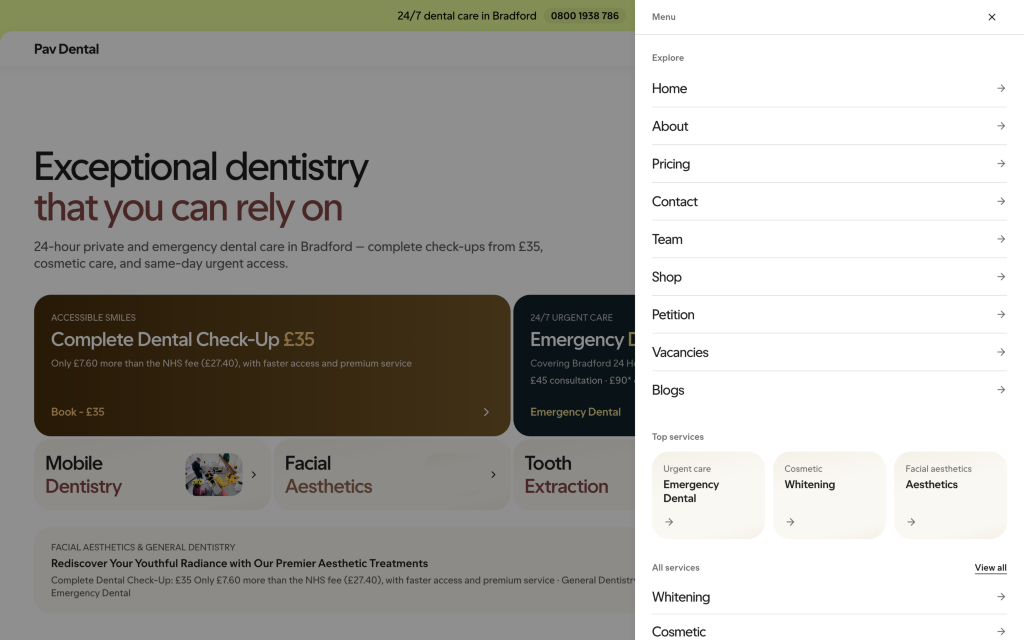
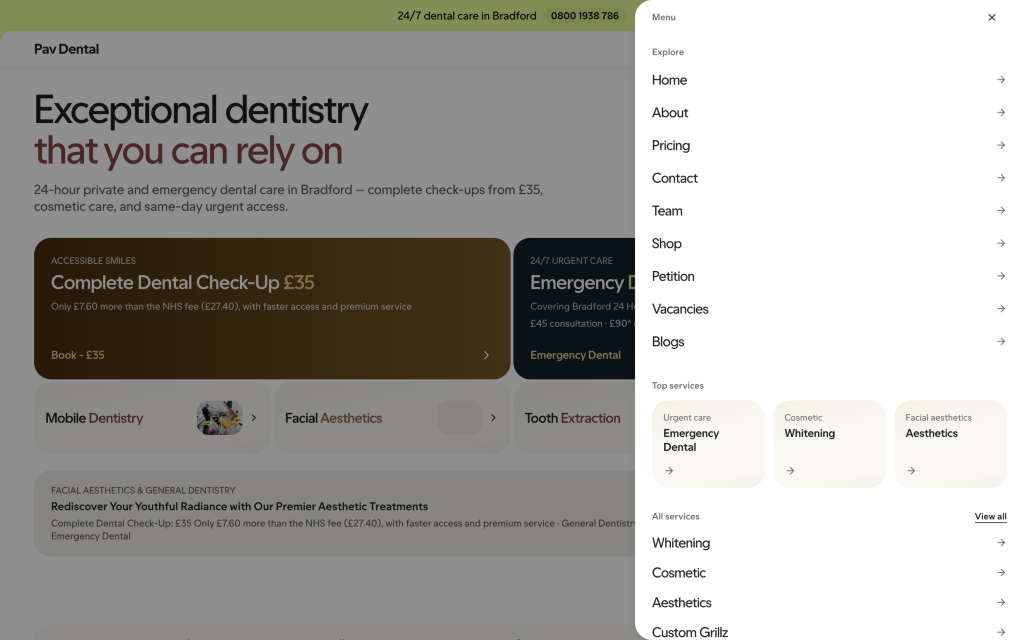
Website: align hero category tiles and menu drawer with Mobbin Hims screens

diff --git a/website/src/components/home/header.tsx b/website/src/components/home/header.tsx
@@ -141,11 +141,11 @@ export function Header() {
         aria-hidden={!menuOpen}
         inert={!menuOpen}
         className={cn(
-          "fixed inset-y-0 right-0 z-[71] flex w-full max-w-[547px] flex-col bg-white shadow-card transition-transform duration-300 ease-smooth",
+          "fixed inset-y-0 right-0 z-[71] flex w-full max-w-[547px] flex-col bg-white shadow-card transition-transform duration-300 ease-smooth md:rounded-l-xl",
           menuOpen ? "translate-x-0" : "translate-x-full",
         )}
       >
-        <div className="flex h-[49px] shrink-0 items-center justify-between border-b border-border px-6">
+        <div className="flex h-[49px] shrink-0 items-center justify-between px-6">
           <span className="text-caption font-medium text-subtle">Menu</span>
           <Button
             ref={closeButtonRef}
@@ -159,16 +159,16 @@ export function Header() {
           </Button>
         </div>
 
-        <div className="flex-1 overflow-y-auto px-6 py-6">
+        <div className="flex-1 overflow-y-auto px-6 py-4">
           <nav aria-label="Primary navigation">
             <p className="mb-2 text-caption font-medium text-subtle">Explore</p>
-            <ul className="divide-y divide-border">
+            <ul className="space-y-0.5">
               {NAV_LINKS.map((link) => (
                 <li key={link.href}>
                   <a
                     href={link.href}
                     onClick={closeMenu}
-                    className="group flex items-center justify-between py-3.5 text-nav-lg text-fg t-colors hover:text-muted"
+                    className="group flex items-center justify-between rounded-md py-2.5 text-nav-lg text-fg t-colors hover:text-muted"
                   >
                     <span>{link.name}</span>
                     <ArrowRight
@@ -215,13 +215,13 @@ export function Header() {
                 View all
               </a>
             </div>
-            <ul className="divide-y divide-border">
+            <ul className="space-y-0.5">
               {SERVICE_PAGES.map((service) => (
                 <li key={service.href}>
                   <a
                     href={service.href}
                     onClick={closeMenu}
-                    className="group flex items-center justify-between py-3 text-nav-lg text-fg t-colors hover:text-muted"
+                    className="group flex items-center justify-between rounded-md py-2 text-nav-lg text-fg t-colors hover:text-muted"
                   >
                     <span>{service.name}</span>
                     <ArrowRight

diff --git a/website/src/components/home/hero-slider.tsx b/website/src/components/home/hero-slider.tsx
@@ -109,11 +109,11 @@ export function HeroSlider() {
             to={tile.to}
             className="group flex h-[80px] items-center justify-between gap-3 overflow-hidden rounded-xl bg-tile-cream px-4 t-lift lg:h-[100px]"
           >
-            <span className="text-h4 text-fg">
+            <span className="text-nav-lg font-[470] text-fg">
               {tile.title} <span className={ACCENT_TEXT[tile.accentTone]}>{tile.accent}</span>
             </span>
             <span className="flex shrink-0 items-center gap-2">
-              <span className="t-zoom block w-16 overflow-hidden rounded-md lg:w-20">
+              <span className="t-zoom block w-14 overflow-hidden rounded-md lg:w-16">
                 <Media
                   src={idx === 0 ? "/media/hero.jpg" : undefined}
                   alt={tile.mediaAlt}

diff --git a/docs/redesign/website/tracking.md b/docs/redesign/website/tracking.md
@@ -43,7 +43,7 @@ Group F1 · `every page` · [page file](pages/shell.md)
 
 | # | Section | Reference | Status | 1440 | 390 | Copy | Notes |
 |---|---|---|---|---|---|---|---|
-| 1 | header | Hims capture header + [Mobbin header](https://mobbin.com/sites/sections/9ade11e2-61a0-4e63-a2c8-a093c9bd3ac0) | verified | [ok](shots/shell/01-header-1440.png) | [ok](shots/shell/01-header-390.png) | same | 44px `bg-lime` strip (`24/7 dental care in Bradford` + `PRACTICE_PHONE` pill) + sticky 49px `rounded-t-header` bar + `BookButton size="sm"` + 42px menu button + 547px `inert` right drawer ([drawer 1440](../shots/shell/01-drawer-1440.png), [drawer 390](../shots/shell/01-drawer-390.png)) with all `NAV_LINKS` & `SERVICE_PAGES` in SSR HTML, focus trap & Escape. |
+| 1 | header | [Mobbin header](https://mobbin.com/sites/sections/9ade11e2-61a0-4e63-a2c8-a093c9bd3ac0) + [Mobbin drawer](https://mobbin.com/screens/cada6a66-06dd-4b1e-b97f-1cc09a6b4b2c) | verified | [ok](shots/shell/01-header-1440.png) | [ok](shots/shell/01-header-390.png) | same | 44px `bg-lime` strip (`24/7 dental care in Bradford` + `PRACTICE_PHONE` pill) + sticky 49px `rounded-t-header` bar + `BookButton size="sm"` + 42px menu button + 547px `md:rounded-l-xl` `inert` right drawer ([drawer 1440](../shots/shell/01-drawer-1440.png), [drawer 390](../shots/shell/01-drawer-390.png)) with airy divider-free `Explore` / `SERVICE_PAGES` links in SSR HTML, focus trap & Escape. |
 | 2 | footer | Hims capture footer + [Mobbin footer 1](https://mobbin.com/sites/sections/c04c5d1d-2267-48ba-a767-8668014e7ed0) + [Mobbin footer 2](https://mobbin.com/sites/sections/572867f5-c7e0-47e1-bb03-8668014e7ed0) | verified | [ok](shots/shell/02-footer-1440.png) | [ok](shots/shell/02-footer-390.png) | same | `bg-black text-white rounded-t-xl`, `FOOTER.about` in `text-h3`, 430px `bg-white/11` Connect panel (`PRACTICE_HOURS`, address, email, phones, `SOCIAL_LINKS`), 3 link columns (`FOOTER.quickLinks`, `SERVICE_PAGES`, `FOOTER.policyLinks`), legal row `text-white/66`, giant bottom wordmark `text-white/17`. |
 | 3 | cookie consent | Hims card/pill tokens | verified | [ok](shots/shell/03-cookie-1440.png) | [ok](shots/shell/03-cookie-390.png) | same | Restyled to `rounded-xl shadow-card bg-white` (`p-4 md:p-5`) + `bg-cream` icon badge + Hims `sm` pill buttons; GA consent logic untouched; dismisses cleanly on Decline/Accept. |
 | 4 | scroll progress | Hims capture (none) | verified | ok | ok | same | Returns `null` with exported `ScrollProgress` signature preserved. |
@@ -60,7 +60,7 @@ Group A1 · `/` · [page file](pages/home.md)
 | 2 | counters | Hims ethos split + `Stat` row | verified | [ok](shots/home/02-counters-1440.png) | ok | same | Live ethos text + `2` Doctors / Dentist, `5` Staffs, `25+` Years of experience, `500+` Happy Patients |
 | 3 | hero canvas | — | verified | ok | ok | same | Unused on redesigned `/` (Three.js orb removed); kept untouched for safety |
 | 4 | hero scene | — | verified | ok | ok | same | Unused on redesigned `/` (Three.js scene); kept untouched for safety |
-| 5 | hero slider | Hims homepage hero + 2 featured tiles (`gap-1`) + 4 category tiles | verified | [ok](shots/home/05-hero-1440.png) | [ok](shots/home/05-hero-390.png) | reworded | H1 + 2 featured tiles (£35 check-up, Emergency Dentist) + 4 category tiles (`tone="sand"` placeholders) + `bg-sand` quick-action strip |
+| 5 | hero slider | [Mobbin hero](https://mobbin.com/sites/sections/4036afc5-93be-4d95-9b06-9b27cae97ebb) + [Mobbin cards](https://mobbin.com/sites/sections/81c02fb1-3cbc-4f4c-b0c1-f9c82804928d) | verified | [ok](shots/home/05-hero-1440.png) | [ok](shots/home/05-hero-390.png) | reworded | H1 + 2 featured tiles (`gap-1`, £35 check-up, Emergency Dentist) + 4 single-line `text-nav-lg` category tiles (`tone="sand"` placeholders) + `bg-sand` quick-action strip |
 | 6 | marquee | Hims `TrustStrip` marquee with pause button | verified | [ok](shots/home/06-marquee-1440.png) | ok | same | Replaced `.marquee-track` with `TrustStrip` |
 | 7 | overview | Hims split services list + white `Working Hours` tile | verified | [ok](shots/home/07-overview-1440.png) | ok | same | Live copy, 6 `+` items, GDC mark, `00:00 – 24:00` Mon–Sun |
 | 8 | reveal | — | verified | ok | ok | same | Stopped using on `/` and testimonials; kept untouched for unconverted pages |
@@ -68,7 +68,7 @@ Group A1 · `/` · [page file](pages/home.md)
 | 10 | spotlight | — | verified | ok | ok | same | Stopped using on `/`; kept untouched for unconverted service heroes |
 | 11 | tilt card | — | verified | ok | ok | same | Unused on `/`; kept untouched without deleting |
 | 12 | video section | Hims light rounded video frame (`What causes cavities?`) | verified | [ok](shots/home/12-video-1440.png) | ok | reworded | `aspect-video` uncropped frame; copy, alt & aria-label aligned to `"What causes cavities?"` video |
-| 13 | testimonials section | Hims navy `Carousel` quote cards (`bg-navy`, `bg-white/7`) | verified | [ok](shots/home/13-testimonials-1440.png) | [ok](shots/home/13-testimonials-390.png) | same | Strictly `HOME_TESTIMONIALS` verbatim, zero stars/ratings; `text-h4` title + `text-lead` quote body |
+| 13 | testimonials section | [Mobbin stat/quote cards](https://mobbin.com/sites/sections/25b74d46-54e3-4564-9a7d-044360efd897) + Hims navy quote `Carousel` | verified | [ok](shots/home/13-testimonials-1440.png) | [ok](shots/home/13-testimonials-390.png) | same | Strictly `HOME_TESTIMONIALS` verbatim, zero stars/ratings; `text-h4` title + `text-lead` quote body |
 | 14 | counting number | Hims `tabular-nums` stat counter | verified | ok | ok | same | Static `tabular-nums` display matching Hims numerals (`2`, `5`, `25+`, `500+`) with zero mid-count lag |
 | 15 | emergency feature | Hims dark brown bento (`bg-brown`, `wrap-bento`, `bg-brown-deep`) | verified | [ok](shots/home/15-emergency-1440.png) | ok | same | Live 24/7 Emergency Dental Services in Bradford copy + £45 / £90* tiles + gold/glass CTAs + soft `bg-white/7` media placeholder |
 | 16 | team trust carousel | Hims "The best care by the best in medicine" trust `Carousel` | verified | [ok](shots/home/16-team-carousel-1440.png) | ok | reworded | Real `TEAM_MEMBERS` cards with GDC numbers for clinicians linking to `/team/$slug` + [CTA band](../shots/home/17-cta-band-1440.png) |

diff --git a/docs/redesign/website/pages/home.md b/docs/redesign/website/pages/home.md
@@ -16,7 +16,7 @@ Status: `todo` not started, `built` redesigned but not yet compared, `verified` 
 | 2 | counters | `website/src/components/home/counters.tsx` | Hims ethos split + `Stat` row | verified | [ok](../shots/home/02-counters-1440.png) | ok | same | Live ethos text + `2` Doctors / Dentist, `5` Staffs, `25+` Years of experience, `500+` Happy Patients |
 | 3 | hero canvas | `website/src/components/home/hero-canvas.tsx` | — | verified | ok | ok | same | Unused on redesigned `/` (Three.js orb removed); kept untouched for safety |
 | 4 | hero scene | `website/src/components/home/hero-scene.tsx` | — | verified | ok | ok | same | Unused on redesigned `/` (Three.js scene); kept untouched for safety |
-| 5 | hero slider | `website/src/components/home/hero-slider.tsx` | Hims homepage hero + 2 featured tiles (`gap-1`) + 4 category tiles | verified | [ok](../shots/home/05-hero-1440.png) | [ok](../shots/home/05-hero-390.png) | reworded | H1 + 2 featured tiles (£35 check-up, Emergency Dentist) + 4 category tiles (`tone="sand"` placeholders) + `bg-sand` quick-action strip |
+| 5 | hero slider | `website/src/components/home/hero-slider.tsx` | [Mobbin hero](https://mobbin.com/sites/sections/4036afc5-93be-4d95-9b06-9b27cae97ebb) + [Mobbin cards](https://mobbin.com/sites/sections/81c02fb1-3cbc-4f4c-b0c1-f9c82804928d) | verified | [ok](../shots/home/05-hero-1440.png) | [ok](../shots/home/05-hero-390.png) | reworded | H1 + 2 featured tiles (`gap-1`, £35 check-up, Emergency Dentist) + 4 single-line `text-nav-lg` category tiles (`tone="sand"` placeholders) + `bg-sand` quick-action strip |
 | 6 | marquee | `website/src/components/home/marquee.tsx` | Hims `TrustStrip` marquee with pause button | verified | [ok](../shots/home/06-marquee-1440.png) | ok | same | Replaced `.marquee-track` with `TrustStrip` |
 | 7 | overview | `website/src/components/home/overview.tsx` | Hims split services list + white `Working Hours` tile | verified | [ok](../shots/home/07-overview-1440.png) | ok | same | Live copy, 6 `+` items, GDC mark, `00:00 – 24:00` Mon–Sun |
 | 8 | reveal | `website/src/components/home/reveal.tsx` | — | verified | ok | ok | same | Stopped using on `/` and testimonials; kept untouched for unconverted pages |
@@ -24,7 +24,7 @@ Status: `todo` not started, `built` redesigned but not yet compared, `verified` 
 | 10 | spotlight | `website/src/components/home/spotlight.tsx` | — | verified | ok | ok | same | Stopped using on `/`; kept untouched for unconverted service heroes |
 | 11 | tilt card | `website/src/components/home/tilt-card.tsx` | — | verified | ok | ok | same | Unused on `/`; kept untouched without deleting |
 | 12 | video section | `website/src/components/home/video-section.tsx` | Hims light rounded video frame (`What causes cavities?`) | verified | [ok](../shots/home/12-video-1440.png) | ok | reworded | `aspect-video` uncropped frame; copy, alt & aria-label aligned to `"What causes cavities?"` video |
-| 13 | testimonials section | `website/src/components/testimonials/testimonials-section.tsx` | Hims navy `Carousel` quote cards (`bg-navy`, `bg-white/7`) | verified | [ok](../shots/home/13-testimonials-1440.png) | [ok](../shots/home/13-testimonials-390.png) | same | Strictly `HOME_TESTIMONIALS` verbatim, zero stars/ratings; `text-h4` title + `text-lead` quote body |
+| 13 | testimonials section | `website/src/components/testimonials/testimonials-section.tsx` | [Mobbin stat/quote cards](https://mobbin.com/sites/sections/25b74d46-54e3-4564-9a7d-044360efd897) + Hims navy quote `Carousel` | verified | [ok](../shots/home/13-testimonials-1440.png) | [ok](../shots/home/13-testimonials-390.png) | same | Strictly `HOME_TESTIMONIALS` verbatim, zero stars/ratings; `text-h4` title + `text-lead` quote body |
 | 14 | counting number | `website/src/components/ui/counting-number.tsx` | Hims `tabular-nums` stat counter | verified | ok | ok | same | Static `tabular-nums` display matching Hims numerals (`2`, `5`, `25+`, `500+`) with zero mid-count lag |
 | 15 | emergency feature | `website/src/components/home/home-emergency.tsx` | Hims dark brown bento (`bg-brown`, `wrap-bento`, `bg-brown-deep`) | verified | [ok](../shots/home/15-emergency-1440.png) | ok | same | Live 24/7 Emergency Dental Services in Bradford copy + £45 / £90* tiles + gold/glass CTAs + soft `bg-white/7` media placeholder |
 | 16 | team trust carousel | `website/src/components/home/home-team-carousel.tsx` | Hims "The best care by the best in medicine" trust `Carousel` | verified | [ok](../shots/home/16-team-carousel-1440.png) | ok | reworded | Real `TEAM_MEMBERS` cards with GDC numbers for clinicians linking to `/team/$slug` + [CTA band](../shots/home/17-cta-band-1440.png) |
@@ -51,6 +51,7 @@ Status: `todo` not started, `built` redesigned but not yet compared, `verified` 
 
 ## Verification log
 
+- 2026-11-19 (Mobbin pass): Compared hero category tiles and card proportions against [Mobbin hero](https://mobbin.com/sites/sections/4036afc5-93be-4d95-9b06-9b27cae97ebb) and [Mobbin care cards](https://mobbin.com/sites/sections/771a19ed-e62a-4988-b827-c0fc365b87c9); tuned category label size (`text-nav-lg font-[470]`) and thumbnail width (`w-14 lg:w-16`) so all 4 category titles sit on one clean line on desktop and mobile.
 - 2026-11-19: Reviewed full `/` page against Hims capture (`http://localhost:8099/index.html`) at `1440x900` and `390x844` across two browser passes. Fixed Hero top offset (`pt-6 md:pt-8`), category tile `<Media tone="sand" />`, quick-action strip contrast (`bg-sand`), `HomeEmergency` placeholder frame (`bg-white/7`), `VideoSection` `aspect-video` + cavities copy, `CountingNumber` static numerals (`2`, `5`, `25+`, `500+`), navy testimonial card typography, and `Heading` block-span spacing (lifting `/` SEO parity from 46% to 88% with 0 failures). Zero page-level horizontal overflow at `390x844`. Remaining empty `<Media>` boxes are intentional Phase 4 Google Flow slots (`5` listed above).
 
 ## Open questions for the lead

diff --git a/docs/redesign/website/pages/shell.md b/docs/redesign/website/pages/shell.md
@@ -12,7 +12,7 @@ Status: `todo` not started, `built` redesigned but not yet compared, `verified` 
 
 | # | Section | File | Reference (Hims capture / Mobbin links) | Status | 1440 | 390 | Copy | Notes |
 |---|---|---|---|---|---|---|---|---|
-| 1 | header | `website/src/components/home/header.tsx` | Hims capture header + [Mobbin header](https://mobbin.com/sites/sections/9ade11e2-61a0-4e63-a2c8-a093c9bd3ac0) | verified | [ok](../shots/shell/01-header-1440.png) | [ok](../shots/shell/01-header-390.png) | same | 44px `bg-lime` strip (`24/7 dental care in Bradford` + `PRACTICE_PHONE` pill) + sticky 49px `rounded-t-header` bar + `BookButton size="sm"` + 42px menu button + 547px `inert` right drawer ([drawer 1440](../shots/shell/01-drawer-1440.png), [drawer 390](../shots/shell/01-drawer-390.png)) with all `NAV_LINKS` & `SERVICE_PAGES` in SSR HTML, focus trap & Escape. |
+| 1 | header | `website/src/components/home/header.tsx` | [Mobbin header](https://mobbin.com/sites/sections/9ade11e2-61a0-4e63-a2c8-a093c9bd3ac0) + [Mobbin drawer](https://mobbin.com/screens/cada6a66-06dd-4b1e-b97f-1cc09a6b4b2c) | verified | [ok](../shots/shell/01-header-1440.png) | [ok](../shots/shell/01-header-390.png) | same | 44px `bg-lime` strip (`24/7 dental care in Bradford` + `PRACTICE_PHONE` pill) + sticky 49px `rounded-t-header` bar + `BookButton size="sm"` + 42px menu button + 547px `md:rounded-l-xl` `inert` right drawer ([drawer 1440](../shots/shell/01-drawer-1440.png), [drawer 390](../shots/shell/01-drawer-390.png)) with airy divider-free `Explore` / `SERVICE_PAGES` links in SSR HTML, focus trap & Escape. |
 | 2 | footer | `website/src/components/home/footer.tsx` | Hims capture footer + [Mobbin footer 1](https://mobbin.com/sites/sections/c04c5d1d-2267-48ba-a767-8668014e7ed0) + [Mobbin footer 2](https://mobbin.com/sites/sections/572867f5-c7e0-47e1-bb03-8668014e7ed0) | verified | [ok](../shots/shell/02-footer-1440.png) | [ok](../shots/shell/02-footer-390.png) | same | `bg-black text-white rounded-t-xl`, `FOOTER.about` in `text-h3`, 430px `bg-white/11` Connect panel (`PRACTICE_HOURS`, address, email, phones, `SOCIAL_LINKS`), 3 link columns (`FOOTER.quickLinks`, `SERVICE_PAGES`, `FOOTER.policyLinks`), legal row `text-white/66`, giant bottom wordmark `text-white/17`. |
 | 3 | cookie consent | `website/src/components/home/cookie-consent.tsx` | Hims card/pill tokens | verified | [ok](../shots/shell/03-cookie-1440.png) | [ok](../shots/shell/03-cookie-390.png) | same | Restyled to `rounded-xl shadow-card bg-white` (`p-4 md:p-5`) + `bg-cream` icon badge + Hims `sm` pill buttons; GA consent logic untouched; dismisses cleanly on Decline/Accept. |
 | 4 | scroll progress | `website/src/components/home/scroll-progress.tsx` | Hims capture (none) | verified | ok | ok | same | Returns `null` with exported `ScrollProgress` signature preserved. |
@@ -31,6 +31,7 @@ Status: `todo` not started, `built` redesigned but not yet compared, `verified` 
 
 ## Verification log
 
+- 2026-11-19 (Mobbin pass): Compared header and drawer against [Mobbin drawer screen](https://mobbin.com/screens/cada6a66-06dd-4b1e-b97f-1cc09a6b4b2c) and [Mobbin header section](https://mobbin.com/sites/sections/9ade11e2-61a0-4e63-a2c8-a093c9bd3ac0); added `md:rounded-l-xl` and removed hairline row dividers (`divide-y`) in the drawer for airy Hims spacing.
 - 2026-11-19: Compared header, drawer (Escape + focus trap), footer, cookie consent, and `/nonexistent-page-404` (HTTP 404) at `1440x900` and `390x844` against `http://localhost:8099/index.html` and Mobbin references. Tightened mobile cookie consent padding (`p-4 md:p-5`). Verified zero page-level horizontal overflow at 390px and clean dismissal of cookie banner.
 
 ## Open questions for the lead
